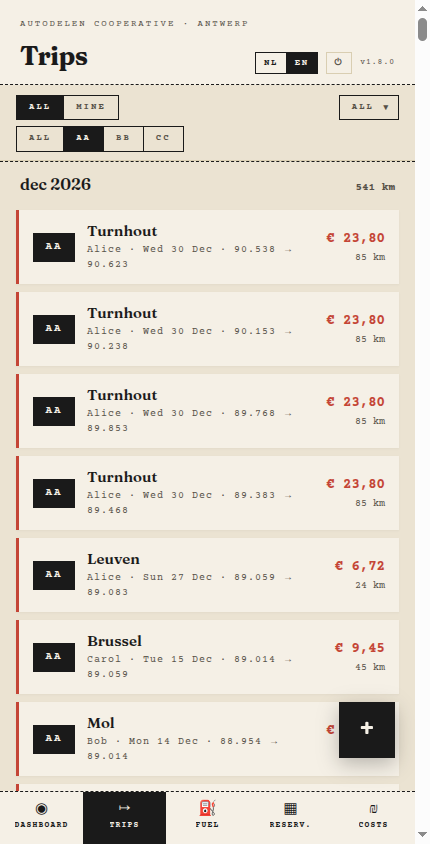
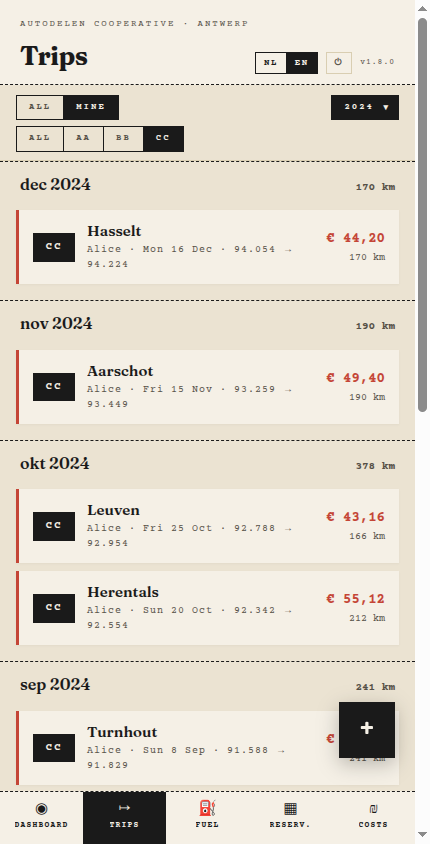
docs(user-guide): fix profile nav text, dashboard content, filters, add detail shots
- Section 2: hover over name reveals pencil (was "profile icon")
- Section 3: document dashboard content; remove false filter subsection
- Sections 4/5/6: add detail view shots 34-36; Mine filter in fuel/expense tables
- Section 7: add legend table (□/▦/■), add viewing/editing subsection with shot 37
- Screenshots 08/11/14: navigate with ?year=2024&mine=true&car=CC URL params
- Screenshot 03: force pencil visible via evaluate (React onMouseEnter bypass)

diff --git a/scripts/screenshot-docs.ts b/scripts/screenshot-docs.ts
@@ -204,15 +204,24 @@ async function main() {
     await shot(page, "admin-01-invite-link.png");
   }
 
-  // Switch to alice for shots 03-33
-  if (START_FROM <= 33 && END_AT >= 3) {
+  // Switch to alice for shots 03-37
+  if (START_FROM <= 37 && END_AT >= 3) {
     await login(page, "alice", "alice");
   }
 
-  // ── 03. Profile icon in navbar ────────────────────────────────────────────
+  // ── 03. Username in navbar — hover to reveal pencil ──────────────────────
   if (shouldRun(3)) {
     await page.goto(`${BASE_URL}/`);
     await idle(page);
+    // Hover over the name link to reveal pencil icon (React synthetic event — use evaluate)
+    const nameLink = page.locator('a[href*="/user/"]').first();
+    await nameLink.waitFor({ state: "visible" });
+    await nameLink.evaluate((el: HTMLElement) => {
+      el.style.textDecoration = "underline";
+      const pencil = el.querySelector("span");
+      if (pencil) (pencil as HTMLElement).style.opacity = "0.6";
+    });
+    await page.waitForTimeout(200);
     await shot(page, "member-03-profile-menu.png");
   }
 
@@ -248,24 +257,17 @@ async function main() {
     await shot(page, "member-07-trips.png");
   }
 
-  // ── 08. Trips filters — click AA car filter ────────────────────────────────
+  // ── 08. Trips filters — year 2024, mine, car CC ───────────────────────────
   if (shouldRun(8)) {
-    if (!shouldRun(7)) {
-      await page.goto(`${BASE_URL}/trips`);
-      await idle(page);
-    }
-    const tripFilterAA = page.locator("button").filter({ hasText: /^AA$/ }).first();
-    if ((await tripFilterAA.count()) > 0) {
-      await tripFilterAA.click();
-      await page.waitForTimeout(500);
-    }
+    await page.goto(`${BASE_URL}/trips?year=2024&mine=true&car=CC`);
+    await idle(page);
     await shot(page, "member-08-trips-filters.png");
   }
 
   // ── 09. Single trip card ───────────────────────────────────────────────────
   if (shouldRun(9)) {
-    if (!shouldRun(7) && !shouldRun(8)) {
-      await page.goto(`${BASE_URL}/trips`);
+    if (!shouldRun(8)) {
+      await page.goto(`${BASE_URL}/trips?year=2024&mine=true&car=CC`);
       await idle(page);
     }
     await page.evaluate(() => window.scrollTo(0, 100));
@@ -280,24 +282,17 @@ async function main() {
     await shot(page, "member-10-fuel.png");
   }
 
-  // ── 11. Fuel filters — click AA car filter ─────────────────────────────────
+  // ── 11. Fuel filters — year 2024, mine, car CC ────────────────────────────
   if (shouldRun(11)) {
-    if (!shouldRun(10)) {
-      await page.goto(`${BASE_URL}/fuel`);
-      await idle(page);
-    }
-    const fuelFilterAA = page.locator("button").filter({ hasText: /^AA$/ }).first();
-    if ((await fuelFilterAA.count()) > 0) {
-      await fuelFilterAA.click();
-      await page.waitForTimeout(500);
-    }
+    await page.goto(`${BASE_URL}/fuel?year=2024&mine=true&car=CC`);
+    await idle(page);
     await shot(page, "member-11-fuel-filters.png");
   }
 
   // ── 12. Single fuel card ───────────────────────────────────────────────────
   if (shouldRun(12)) {
-    if (!shouldRun(10) && !shouldRun(11)) {
-      await page.goto(`${BASE_URL}/fuel`);
+    if (!shouldRun(11)) {
+      await page.goto(`${BASE_URL}/fuel?year=2024&mine=true&car=CC`);
       await idle(page);
     }
     await page.evaluate(() => window.scrollTo(0, 100));
@@ -312,20 +307,10 @@ async function main() {
     await shot(page, "member-13-cost.png");
   }
 
-  // ── 14. Expense filters — click MINE filter ────────────────────────────────
+  // ── 14. Expense filters — year 2024, mine, car CC ─────────────────────────
   if (shouldRun(14)) {
-    if (!shouldRun(13)) {
-      await page.goto(`${BASE_URL}/expenses`);
-      await idle(page);
-    }
-    const expFilterMine = page
-      .locator("button")
-      .filter({ hasText: /^MINE$|^MIJN$/i })
-      .first();
-    if ((await expFilterMine.count()) > 0) {
-      await expFilterMine.click();
-      await page.waitForTimeout(500);
-    }
+    await page.goto(`${BASE_URL}/expenses?year=2024&mine=true&car=CC`);
+    await idle(page);
     await shot(page, "member-14-cost-filters.png");
   }
 
@@ -713,6 +698,79 @@ async function main() {
       await page.waitForTimeout(200);
     }
     await shot(page, "member-33-fab-add-reservation.png");
+  }
+
+  // ── 34. Trip detail — first trip card opened ──────────────────────────────
+  if (shouldRun(34)) {
+    await page.goto(`${BASE_URL}/trips`);
+    await idle(page);
+    const tripCard = page
+      .locator("button")
+      .filter({ hasText: /\d+ km/i })
+      .first();
+    await tripCard.waitFor({ state: "visible", timeout: 5000 });
+    await tripCard.click();
+    await page.waitForSelector('[role="dialog"]', { state: "visible", timeout: 5000 });
+    await page.waitForTimeout(400);
+    await shot(page, "member-34-trip-detail.png");
+    await page.keyboard.press("Escape");
+    await page.waitForTimeout(300);
+  }
+
+  // ── 35. Fuel detail — first fuel card opened ──────────────────────────────
+  if (shouldRun(35)) {
+    await page.goto(`${BASE_URL}/fuel`);
+    await idle(page);
+    const fuelCard = page
+      .locator("button")
+      .filter({ hasText: /\d+\.\d+L/i })
+      .first();
+    await fuelCard.waitFor({ state: "visible", timeout: 5000 });
+    await fuelCard.click();
+    await page.waitForSelector('[role="dialog"]', { state: "visible", timeout: 5000 });
+    await page.waitForTimeout(400);
+    await shot(page, "member-35-fuel-detail.png");
+    await page.keyboard.press("Escape");
+    await page.waitForTimeout(300);
+  }
+
+  // ── 36. Expense detail — first expense card opened ────────────────────────
+  if (shouldRun(36)) {
+    await page.goto(`${BASE_URL}/expenses`);
+    await idle(page);
+    // Expense cards are buttons with € amounts (fmtMoney uses € ); filter buttons show car names
+    const expenseCard = page.locator("button").filter({ hasText: /€/ }).first();
+    await expenseCard.waitFor({ state: "visible", timeout: 5000 });
+    await expenseCard.click();
+    await page.waitForSelector('[role="dialog"]', { state: "visible", timeout: 5000 });
+    await page.waitForTimeout(400);
+    await shot(page, "member-36-expense-detail.png");
+    await page.keyboard.press("Escape");
+    await page.waitForTimeout(300);
+  }
+
+  // ── 37. Reservation detail — first upcoming reservation opened ────────────
+  if (shouldRun(37)) {
+    await page.goto(`${BASE_URL}/calendar`);
+    await idle(page);
+    // Scroll to upcoming list at bottom
+    await page.evaluate(() => window.scrollTo(0, document.body.scrollHeight));
+    await page.waitForTimeout(400);
+    // Reservation cards show Nd day count (e.g. "3d"); filter buttons do not
+    const resCard = page.locator("button").filter({ hasText: /\d+d/ }).first();
+    if ((await resCard.count()) > 0) {
+      await resCard.click();
+      // Edit opens via URL ?edit=<id> — wait for URL to update
+      await page.waitForURL(/[?&]edit=/, { timeout: 5000 });
+      await page.waitForTimeout(600);
+      await shot(page, "member-37-reservation-detail.png");
+      // Close by clicking the X button inside the form
+      const closeBtn = page.locator("button[aria-label]").first();
+      await closeBtn.click({ force: true }).catch(() => {});
+      await page.waitForTimeout(300);
+    } else {
+      await shot(page, "member-37-reservation-detail.png");
+    }
   }
 
   // ── Owner guide ─────────────────────────────────────────────────────────────

diff --git a/docs/user-guide.md b/docs/user-guide.md
@@ -24,9 +24,9 @@ Choose a password (minimum 8 characters), confirm it, and click **Set password**
 
 ## 2. Setting up your profile
 
-After logging in, open your profile via the **profile icon** in the top-right corner of any page.
+After logging in, hover over your **name** in the top-right corner of any page to reveal the pencil icon, then click it.
 
-![Profile icon in the top-right navbar](screenshots/member-03-profile-menu.png)
+![Hover over your name to reveal the edit pencil](screenshots/member-03-profile-menu.png)
 
 Fill in two required fields:
 
@@ -43,19 +43,22 @@ Save your changes. You can update these at any time.
 
 ## 3. Dashboard
 
-The dashboard is your home page. It shows your recent trips, fuel entries, and a running cost summary for all cars you have access to.
+The dashboard is your home page. It shows an overview of all cars you have access to.
 
 ![Full dashboard view](screenshots/member-05-dashboard.png)
+
+The dashboard contains:
+
+- **Balance** — your running cost balance across all cars
+- **Car locations** — where each car is currently parked
+- **Recent trips, fuel, and expenses** — the latest entries with an **All** link to the full page
+- **Upcoming reservations** — your next confirmed and pending reservations
 
 ### Year summary
 
 Scroll down to see a breakdown by year — total distance driven, fuel cost, and your share of expenses.
 
 ![Dashboard year summary section](screenshots/member-06-dashboard-filters.png)
-
-### Filters
-
-Use the filter buttons at the top to narrow the view by car or by year.
 
 ---
 
@@ -67,17 +70,19 @@ The trips page lists all recorded drives.
 
 ### Filters
 
-| Filter     | Description                     |
-| ---------- | ------------------------------- |
-| **Car**    | Show trips for one car only     |
-| **Year**   | Limit to a specific year        |
-| **Driver** | Show trips by a specific member |
+| Filter   | Description                 |
+| -------- | --------------------------- |
+| **Car**  | Show trips for one car only |
+| **Year** | Limit to a specific year    |
+| **Mine** | Show only your own trips    |
 
 ![Trips filter panel open](screenshots/member-08-trips-filters.png)
 
-Each trip card shows: date, driver, car, distance (km), and any notes.
+Each trip card shows: destination, driver, date, odometer range, and cost. Click a trip to view and edit its details.
 
 ![Single trip card](screenshots/member-09-trip-card.png)
+
+![Trip detail view](screenshots/member-34-trip-detail.png)
 
 ---
 
@@ -93,12 +98,15 @@ The fuel page lists all recorded fill-ups.
 | -------- | ---------------------------------- |
 | **Car**  | Show fuel entries for one car only |
 | **Year** | Limit to a specific year           |
+| **Mine** | Show only fill-ups you paid for    |
 
 ![Fuel filter panel open](screenshots/member-11-fuel-filters.png)
 
-Each fuel entry shows: date, car, litres, price per litre, total cost, and who paid.
+Each fuel entry shows: date, car, litres, price per litre, total cost, and who paid. Click an entry to view and edit its details.
 
 ![Single fuel card](screenshots/member-12-fuel-card.png)
+
+![Fuel detail view](screenshots/member-35-fuel-detail.png)
 
 ---
 
@@ -118,9 +126,11 @@ The expenses page lists all one-off costs — parking fees, maintenance contribu
 
 ![Expenses filter panel open](screenshots/member-14-cost-filters.png)
 
-Each expense card shows: date, car, amount, description, and category.
+Each expense card shows: date, car, amount, description, and category. Click an expense to view and edit its details.
 
 ![Single expense card](screenshots/member-23-expense-card.png)
+
+![Expense detail view](screenshots/member-36-expense-detail.png)
 
 ---
 
@@ -129,6 +139,20 @@ Each expense card shows: date, car, amount, description, and category.
 The reservations page lets you request dates for a car in advance. The car owner confirms or rejects requests.
 
 ![Reservations page — timeline and upcoming list](screenshots/member-24-reservation-list.png)
+
+The timeline uses these indicators:
+
+| Symbol | Meaning               |
+| ------ | --------------------- |
+| □      | Day is available      |
+| ▦      | Pending reservation   |
+| ■      | Confirmed reservation |
+
+### Viewing and editing a reservation
+
+Tap any reservation card in the Upcoming list to open it. You can change the dates, car, or note — or cancel the reservation.
+
+![Reservation detail view](screenshots/member-37-reservation-detail.png)
 
 ### Creating a reservation
 
